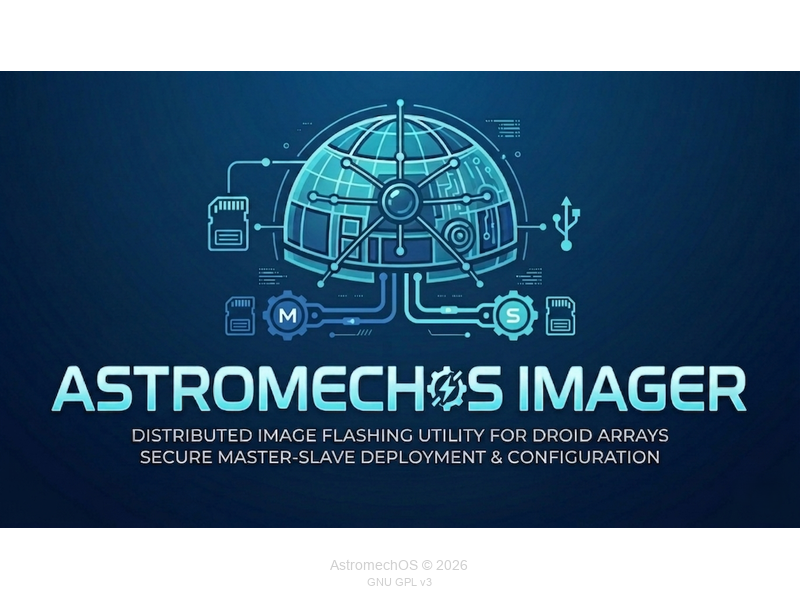
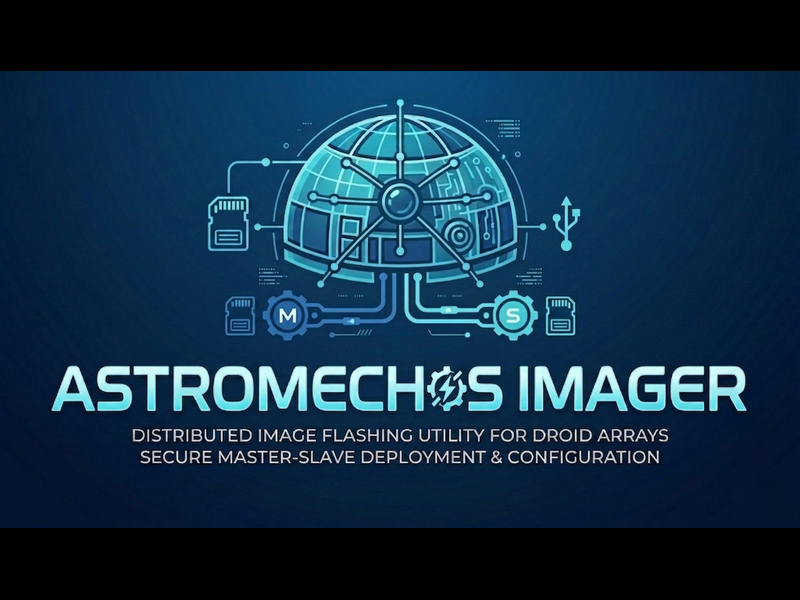
feat(ui/resources): plain centered startup image on opaque black canvas (no overlay text)

Changed region(s): [[0.0, 0.87, 1.0, 1.0], [0.0, 0.0, 1.0, 0.12]]

diff --git a/tools/build_startup_image.py b/tools/build_startup_image.py
@@ -5,19 +5,15 @@ Outputs: astromechos_imager/ui/resources/images/startup_screen_final.png
 
 Processing pipeline
 -------------------
-1.  Normalise source to RGBA.
-2.  Thumbnail to fit within 800x600 (LANCZOS, aspect-ratio preserving).
-3.  Paste the thumbnail centred on a transparent 800x600 RGBA canvas.
-4.  Render a two-line copyright block, bottom-centre:
-      Line 1  "AstromechOS © 2026"      bold-ish, ~14 pt
-      Line 2  "GNU GPL v3"              regular,  ~11 pt
-    Text colour: (200, 200, 200, 220) — light-grey, semi-opaque,
-    readable over both dark and mid-tone background pixels.
-    8 px inter-line gap; 16 px below last line to canvas bottom.
-5.  Save as PNG with optimize=True and no embedded timestamp metadata,
-    so repeated runs produce byte-identical output.
+1. Normalise source to RGBA.
+2. Thumbnail to fit within 800x600 (LANCZOS, aspect-ratio preserving).
+3. Paste the thumbnail centred on a solid-black 800x600 canvas. The opaque
+   background is intentional — a transparent canvas would render invisible
+   when the splash is shown against an undefined backdrop.
+4. Save as PNG with optimize=True and no embedded timestamp metadata,
+   so repeated runs produce byte-identical output.
 
-Font search order (Windows): arial.ttf → segoeui.ttf → PIL default.
+No text / copyright overlay — kept as a clean visual asset.
 """
 
 from __future__ import annotations
@@ -40,43 +36,14 @@ OUTPUT_IMAGE = (
 )
 
 CANVAS_W, CANVAS_H = 800, 600
-
-# Copyright block content — spelling is critical: AstromechOS (capital A + OS)
-COPYRIGHT_LINES = [
-    ("AstromechOS © 2026", 14),   # Line 1: bold-ish, 14 pt equiv
-    ("GNU GPL v3", 11),           # Line 2: regular, 11 pt equiv
-]
-
-TEXT_COLOR = (200, 200, 200, 220)   # light-grey, semi-opaque
-LINE_GAP = 8                         # pixels between lines
-BOTTOM_PAD = 16                      # pixels from last line baseline to canvas bottom
-
-
-# ---------------------------------------------------------------------------
-# Font helpers
-# ---------------------------------------------------------------------------
-def _load_font(size: int):
-    """Return a PIL font at *size* points, falling back to the built-in default."""
-    from PIL import ImageFont
-
-    windows_fonts = Path(r"C:\Windows\Fonts")
-    candidates = ["arial.ttf", "segoeui.ttf"]
-    for name in candidates:
-        candidate = windows_fonts / name
-        if candidate.is_file():
-            try:
-                return ImageFont.truetype(str(candidate), size)
-            except Exception:
-                continue
-    # Fall back to PIL's built-in bitmap font (no size argument supported)
-    return ImageFont.load_default()
+CANVAS_BG = (0, 0, 0, 255)   # opaque black — splash backdrop
 
 
 # ---------------------------------------------------------------------------
 # Main
 # ---------------------------------------------------------------------------
 def main() -> int:
-    from PIL import Image, ImageDraw
+    from PIL import Image
 
     # 1. Load and normalise source to RGBA
     src = Image.open(SOURCE_IMAGE).convert("RGBA")
@@ -85,55 +52,15 @@ def main() -> int:
     thumb = src.copy()
     thumb.thumbnail((CANVAS_W, CANVAS_H), Image.LANCZOS)
 
-    # 3. Paste centred on a transparent 800x600 canvas
-    canvas = Image.new("RGBA", (CANVAS_W, CANVAS_H), (0, 0, 0, 0))
+    # 3. Paste centred on an opaque 800x600 canvas
+    canvas = Image.new("RGBA", (CANVAS_W, CANVAS_H), CANVAS_BG)
     x_off = (CANVAS_W - thumb.width) // 2
     y_off = (CANVAS_H - thumb.height) // 2
     canvas.paste(thumb, (x_off, y_off), mask=thumb)
 
-    # 4. Render copyright block
-    draw = ImageDraw.Draw(canvas)
-
-    # Pre-load fonts for each line
-    fonts = [_load_font(pt) for _, pt in COPYRIGHT_LINES]
-
-    # Measure each line so we can position it precisely
-    line_sizes: list[tuple[int, int]] = []
-    for (text, _), font in zip(COPYRIGHT_LINES, fonts):
-        try:
-            bbox = draw.textbbox((0, 0), text, font=font)
-            w, h = bbox[2] - bbox[0], bbox[3] - bbox[1]
-        except AttributeError:
-            # Older Pillow without textbbox — use textsize
-            w, h = draw.textsize(text, font=font)  # type: ignore[attr-defined]
-        line_sizes.append((w, h))
-
-    # Total block height
-    total_h = sum(h for _, h in line_sizes) + LINE_GAP * (len(COPYRIGHT_LINES) - 1)
-
-    # Bottom anchor: baseline of last line sits BOTTOM_PAD px above canvas bottom
-    block_bottom = CANVAS_H - BOTTOM_PAD
-    block_top = block_bottom - total_h
-
-    # Draw each line centred horizontally
-    y_cursor = block_top
-    for (text, _), font, (w, h) in zip(COPYRIGHT_LINES, fonts, line_sizes):
-        x = (CANVAS_W - w) // 2
-        draw.text((x, y_cursor), text, font=font, fill=TEXT_COLOR)
-        y_cursor += h + LINE_GAP
-
-    # 5. Save deterministically (no timestamp metadata)
+    # 4. Save deterministically (no timestamp metadata)
     OUTPUT_IMAGE.parent.mkdir(parents=True, exist_ok=True)
-
-    # Strip PNG metadata that varies between runs (e.g., creation time).
-    # Saving via PIL with these settings produces stable output.
-    canvas.save(
-        OUTPUT_IMAGE,
-        format="PNG",
-        optimize=True,
-        # PIL does not embed a creation timestamp by default; explicitly pass
-        # no pnginfo to ensure nothing varies between runs.
-    )
+    canvas.save(OUTPUT_IMAGE, format="PNG", optimize=True)
 
     print(f"Saved: {OUTPUT_IMAGE}")
     print(f"Size : {OUTPUT_IMAGE.stat().st_size:,} bytes")
